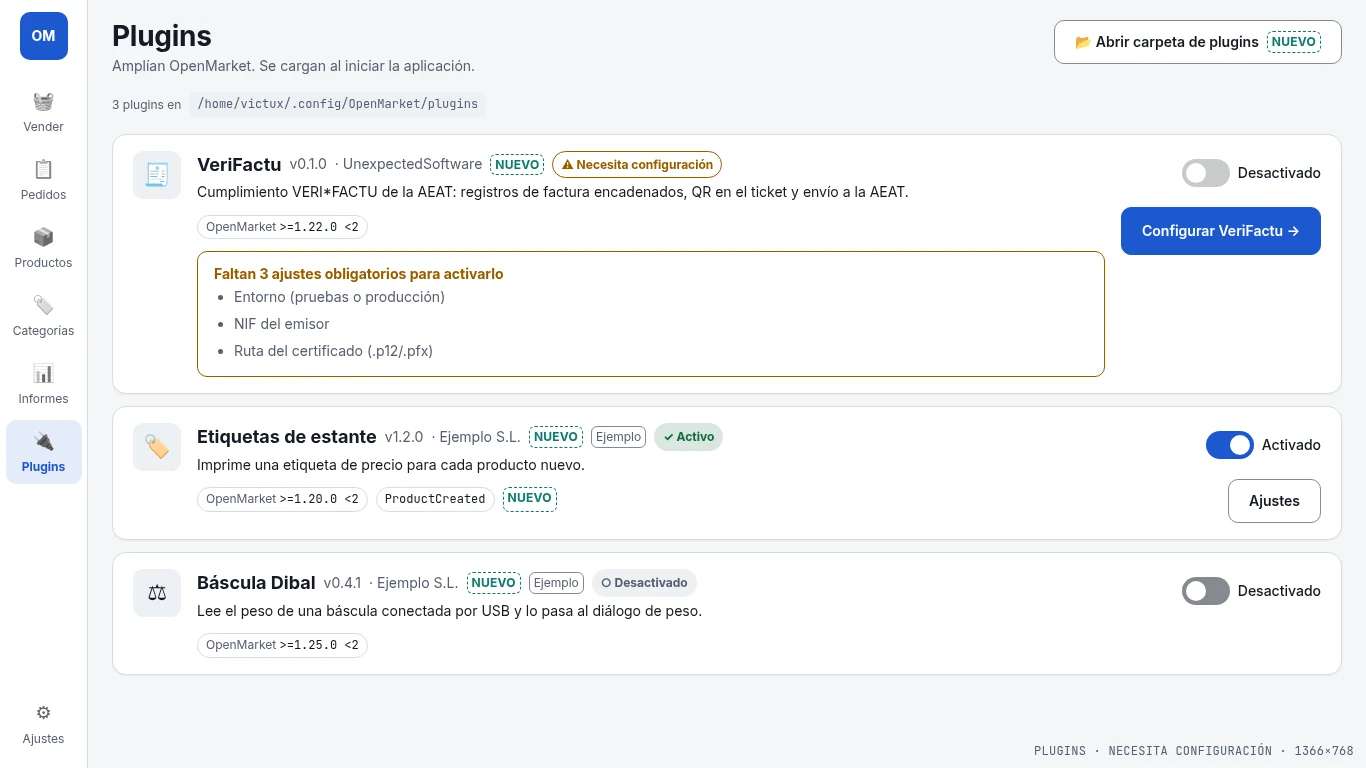
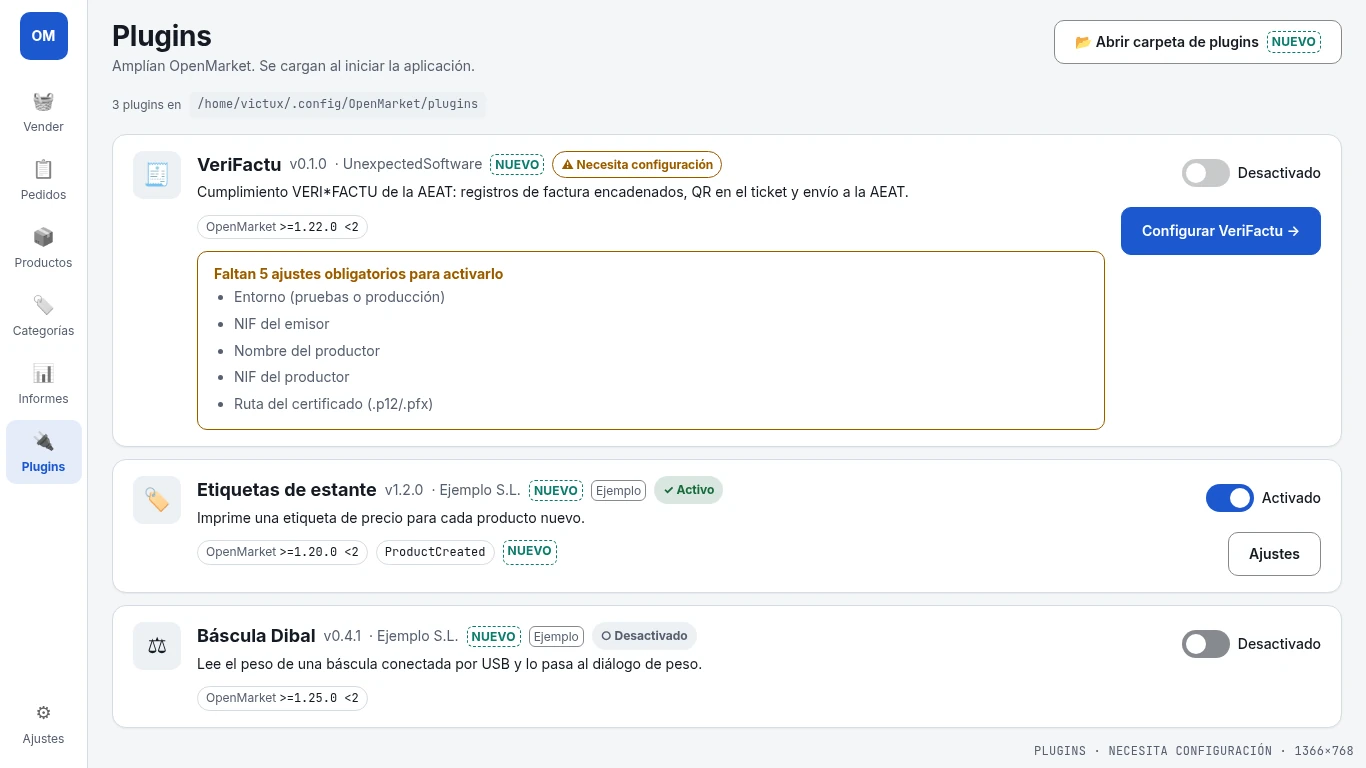
Show VeriFactu producer name and NIF as required settings
The deployer can be the VeriFactu producer, so Nombre del productor
and NIF del productor are settings again (producer NIF defaults to
the issuer NIF). IdSistemaInformatico and the rest of the system
block stay in the plugin.

diff --git a/docs/design/mockups/src/A-plugins-detail.html b/docs/design/mockups/src/A-plugins-detail.html
@@ -80,10 +80,12 @@ dl{display:grid;grid-template-columns:auto minmax(0,1fr);gap:var(--om-space-2) v
 <div class="grid2">
 <div class="fld"><label>Entorno *</label><div class="seg"><span class="on">Pruebas</span><span>Producción</span></div><div class="xs muted">Selector: <span class="new">nuevo</span> <code>"type": "select"</code> en plugin.json. Hoy es texto libre.</div></div>
 <div class="fld"><label>NIF del emisor *</label><div class="in">B12345678</div></div>
-<div class="fld"><label>Ruta del certificado (.p12/.pfx) *</label><div class="in bad"></div><div class="err-t">Obligatorio para activar el plugin</div></div>
+<div class="fld"><label>Nombre del productor *</label><div class="in bad"></div><div class="err-t">Obligatorio para activar el plugin</div></div>
+<div class="fld"><label>NIF del productor *</label><div class="in">B12345678</div><div class="xs muted">Por defecto, el NIF del emisor</div></div>
+<div class="fld"><label>Ruta del certificado (.p12/.pfx) *</label><div class="in"><span class="grow muted" style="overflow:hidden;text-overflow:ellipsis;white-space:nowrap">/home/victux/certs/colmado.p12</span></div></div>
 <div class="fld"><label>Contraseña del certificado</label><div class="in"><span class="grow">••••••••</span><span class="st ok">✓ guardado</span></div><div class="xs muted">Déjalo vacío para conservar la guardada. Se cifra en este equipo.</div></div>
 </div>
-<div class="xs muted" style="margin-top:var(--om-space-4)">Los datos del sistema informático (productor, Id. del sistema y nº de instalación) los pone el plugin. No hace falta introducirlos.</div>
+<div class="xs muted" style="margin-top:var(--om-space-4)">El Id. del sistema (2 caracteres, p. ej. OM), el nombre del sistema, la versión y el nº de instalación los pone el plugin.</div>
 <div class="ft"><span class="xs muted" style="margin-right:auto;align-self:center">* obligatorio · Los cambios se aplican al reiniciar</span><div class="btn">Cancelar</div><div class="btn p">Guardar</div></div>
 </section>
 <aside style="display:flex;flex-direction:column;gap:var(--om-space-4);min-width:0">

diff --git a/docs/design/mockups/src/A-plugins-needs-setup.html b/docs/design/mockups/src/A-plugins-needs-setup.html
@@ -77,8 +77,8 @@ dl{display:grid;grid-template-columns:auto minmax(0,1fr);gap:var(--om-space-2) v
 <div class="btn sm">📂 Abrir carpeta de plugins <span class="new">nuevo</span></div></div><div class="t xs muted">3 plugins en <span class=path>/home/victux/.config/OpenMarket/plugins</span></div><div class="list"><article class="card pc"><div class="ico">🧾</div>
 <div style="min-width:0"><div class="t"><span class="name">VeriFactu</span><span class="muted">v0.1.0</span><span class="muted">· UnexpectedSoftware</span> <span class="new">nuevo</span><span class="st warn">⚠ Necesita configuración</span></div>
 <div class="desc">Cumplimiento VERI*FACTU de la AEAT: registros de factura encadenados, QR en el ticket y envío a la AEAT.</div>
-<div class="meta"><span class="chip">OpenMarket <code>&gt;=1.22.0 &lt;2</code></span></div><div class="todo"><div class="b" style="color:var(--om-color-warning)">Faltan 3 ajustes obligatorios para activarlo</div>
-<ul class="muted"><li>Entorno (pruebas o producción)</li><li>NIF del emisor</li><li>Ruta del certificado (.p12/.pfx)</li></ul></div></div>
+<div class="meta"><span class="chip">OpenMarket <code>&gt;=1.22.0 &lt;2</code></span></div><div class="todo"><div class="b" style="color:var(--om-color-warning)">Faltan 5 ajustes obligatorios para activarlo</div>
+<ul class="muted"><li>Entorno (pruebas o producción)</li><li>NIF del emisor</li><li>Nombre del productor</li><li>NIF del productor</li><li>Ruta del certificado (.p12/.pfx)</li></ul></div></div>
 <div class="side"><div class="tg"><span class="sw dis"></span>Desactivado</div><div class="btn p">Configurar VeriFactu →</div></div></article><article class="card pc"><div class="ico">🏷</div>
 <div style="min-width:0"><div class="t"><span class="name">Etiquetas de estante</span><span class="muted">v1.2.0</span><span class="muted">· Ejemplo S.L.</span> <span class="new">nuevo</span> <span class="ex">Ejemplo</span><span class="st ok">✓ Activo</span></div>
 <div class="desc">Imprime una etiqueta de precio para cada producto nuevo.</div>

diff --git a/docs/design/mockups/src/plugins.py b/docs/design/mockups/src/plugins.py
@@ -145,8 +145,8 @@ def listing(vf_state):
     enc = '<div class="banner info xs">🔒 Las contraseñas de los plugins se guardan cifradas en este equipo.</div>'
     cards = []
     if vf_state == "warn":
-        missing = '''<div class="todo"><div class="b" style="color:var(--om-color-warning)">Faltan 3 ajustes obligatorios para activarlo</div>
-<ul class="muted"><li>Entorno (pruebas o producción)</li><li>NIF del emisor</li><li>Ruta del certificado (.p12/.pfx)</li></ul></div>'''
+        missing = '''<div class="todo"><div class="b" style="color:var(--om-color-warning)">Faltan 5 ajustes obligatorios para activarlo</div>
+<ul class="muted"><li>Entorno (pruebas o producción)</li><li>NIF del emisor</li><li>Nombre del productor</li><li>NIF del productor</li><li>Ruta del certificado (.p12/.pfx)</li></ul></div>'''
         cards.append(card("🧾", "VeriFactu", "0.1.0", "UnexpectedSoftware", VF_DESC, "&gt;=1.22.0 &lt;2", [], "warn",
             toggle(False, "Desactivado", dis=True), '<div class="btn p">Configurar VeriFactu →</div>', missing))
     else:
@@ -174,10 +174,12 @@ detail = f'''<div class="t"><span class="btn g" style="padding-left:0">← Plugi
 <div class="grid2">
 <div class="fld"><label>Entorno *</label><div class="seg"><span class="on">Pruebas</span><span>Producción</span></div><div class="xs muted">Selector: <span class="new">nuevo</span> <code>"type": "select"</code> en plugin.json. Hoy es texto libre.</div></div>
 <div class="fld"><label>NIF del emisor *</label><div class="in">B12345678</div></div>
-<div class="fld"><label>Ruta del certificado (.p12/.pfx) *</label><div class="in bad"></div><div class="err-t">Obligatorio para activar el plugin</div></div>
+<div class="fld"><label>Nombre del productor *</label><div class="in bad"></div><div class="err-t">Obligatorio para activar el plugin</div></div>
+<div class="fld"><label>NIF del productor *</label><div class="in">B12345678</div><div class="xs muted">Por defecto, el NIF del emisor</div></div>
+<div class="fld"><label>Ruta del certificado (.p12/.pfx) *</label><div class="in"><span class="grow muted" style="overflow:hidden;text-overflow:ellipsis;white-space:nowrap">/home/victux/certs/colmado.p12</span></div></div>
 <div class="fld"><label>Contraseña del certificado</label><div class="in"><span class="grow">••••••••</span><span class="st ok">✓ guardado</span></div><div class="xs muted">Déjalo vacío para conservar la guardada. Se cifra en este equipo.</div></div>
 </div>
-<div class="xs muted" style="margin-top:var(--om-space-4)">Los datos del sistema informático (productor, Id. del sistema y nº de instalación) los pone el plugin. No hace falta introducirlos.</div>
+<div class="xs muted" style="margin-top:var(--om-space-4)">El Id. del sistema (2 caracteres, p. ej. OM), el nombre del sistema, la versión y el nº de instalación los pone el plugin.</div>
 <div class="ft"><span class="xs muted" style="margin-right:auto;align-self:center">* obligatorio · Los cambios se aplican al reiniciar</span><div class="btn">Cancelar</div><div class="btn p">Guardar</div></div>
 </section>
 <aside style="display:flex;flex-direction:column;gap:var(--om-space-4);min-width:0">

diff --git a/docs/design/plans/plugins-screen.md b/docs/design/plans/plugins-screen.md
@@ -18,7 +18,7 @@ Anything tagged **nuevo** in the mockups needs data or an action the host does n
 - **Restart:** `restartRequired` is a renderer flag set after any save. No relaunch action. No IPC to open the folder (`main.development.js` only has `shell.openExternal`).
 - **Secrets:** `encryption.backend === 'basic_text'` or `available === false` shows "Secrets are stored with basic encryption".
 - `PluginSlot.js` renders nothing (#105 open).
-- Verifactu `plugin.json` (0.1.0, `>=1.22.0 <2`): `environment` (free text "pruebas | produccion"), `nif`, `softwareId`, `certificatePath` required; `certificatePassword` secret, not required. `softwareId` (IdSistemaInformatico) is producer data and is being removed ([openmarket-plugin-verifactu#10](https://github.com/UnexpectedSoftware/openmarket-plugin-verifactu/issues/10)), so the mockups show the three required settings that remain: Entorno, NIF del emisor and Ruta del certificado, plus the secret password. Labels are English. Phase 1 registers sync `InvoiceIssued`/`InvoiceCancelled` and durable `verifactu:send`/`verifactu:send-cancellation`; no receipt slot yet.
+- Verifactu `plugin.json` (0.1.0, `>=1.22.0 <2`): `environment` (free text "pruebas | produccion"), `nif`, `softwareId`, `certificatePath` required; `certificatePassword` secret, not required. Labels are English. [openmarket-plugin-verifactu#10](https://github.com/UnexpectedSoftware/openmarket-plugin-verifactu/issues/10) replaces `softwareId` with two required producer settings, Nombre del productor (`NombreRazon`) and NIF del productor (`NIF`); the producer NIF defaults to the issuer NIF when blank. The mockups already show those five required settings plus the secret password. `IdSistemaInformatico` (2 characters, e.g. `OM`), `NombreSistemaInformatico`, `Version` and `NumeroInstalacion` stay hardcoded or generated by the plugin; they are not settings. Phase 1 registers sync `InvoiceIssued`/`InvoiceCancelled` and durable `verifactu:send`/`verifactu:send-cancellation`; no receipt slot yet.
 
 ## Statuses
 
@@ -83,7 +83,7 @@ Each chunk is one PR, branched from master, smallest first. P1–P3 do not depen
 
 - `FolderPluginSource` keeps `author` (string), a setting `type` of `text` (default) or `select` with `options: [{value, label}]`, and an optional `apiVersion` number. A select with no valid options, or an `apiVersion` the host does not support, makes the plugin "Incompatible" with a clear reason (not a silent skip).
 - `SavePlugin` rejects a select value outside its options. P5's form renders `select` as the segmented control in the mockup (Pruebas / Producción).
-- `docs/plugins.md` documents the fields. Follow-up PR in `openmarket-plugin-verifactu`: `"type": "select"` for `environment`, Spanish labels, `author` (after #10 removes `softwareId`).
+- `docs/plugins.md` documents the fields. Follow-up PR in `openmarket-plugin-verifactu`: `"type": "select"` for `environment`, Spanish labels, `author`, and the producer settings from #10 (Nombre del productor, NIF del productor).
 - **Acceptance:** source and save specs for each new field and each rejection. `Version: none`.
 
 ### P7 — diagnostics: bad folders and "Usa" (host change)
